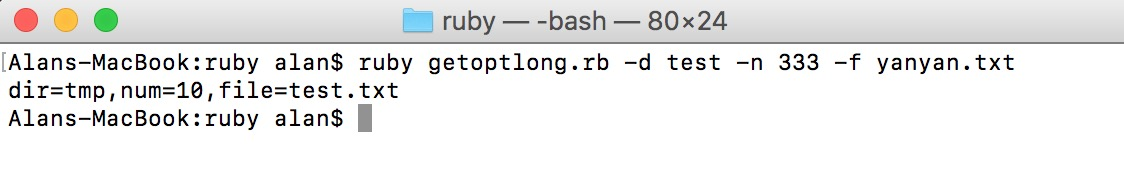
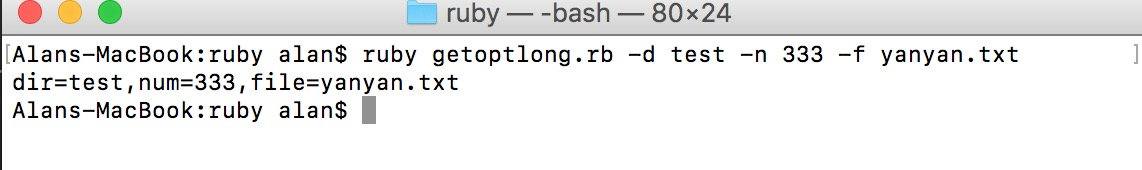
update

Changed region(s): [[0.0, 0.0, 1.0, 0.7647]]

diff --git a/_posts/2017-03-20-ruby-getoptlong.md b/_posts/2017-03-20-ruby-getoptlong.md
@@ -29,19 +29,18 @@ def display_usage
 	p "ruby getoptlong.rb -d tmp -n 3 -f 'test.txt'"
 end
 
-def parse_arguments
-	opts.each do |opt,arg|
-		case opt
-		when '--dir'
-			dir=arg
-		when '--num'
-			num=arg.to_i
-		when '--file'
-			test_file=arg
-		end
+#parse arguments
+opts.each do |opt,arg|
+	case opt
+	when '--dir'
+		dir=arg
+	when '--num'
+		num=arg.to_i
+	when '--file'
+		test_file=arg
 	end
 end
-
+	
 # print all the arguments
 puts "dir=#{dir},num=#{num},file=#{test_file}"
 ```
